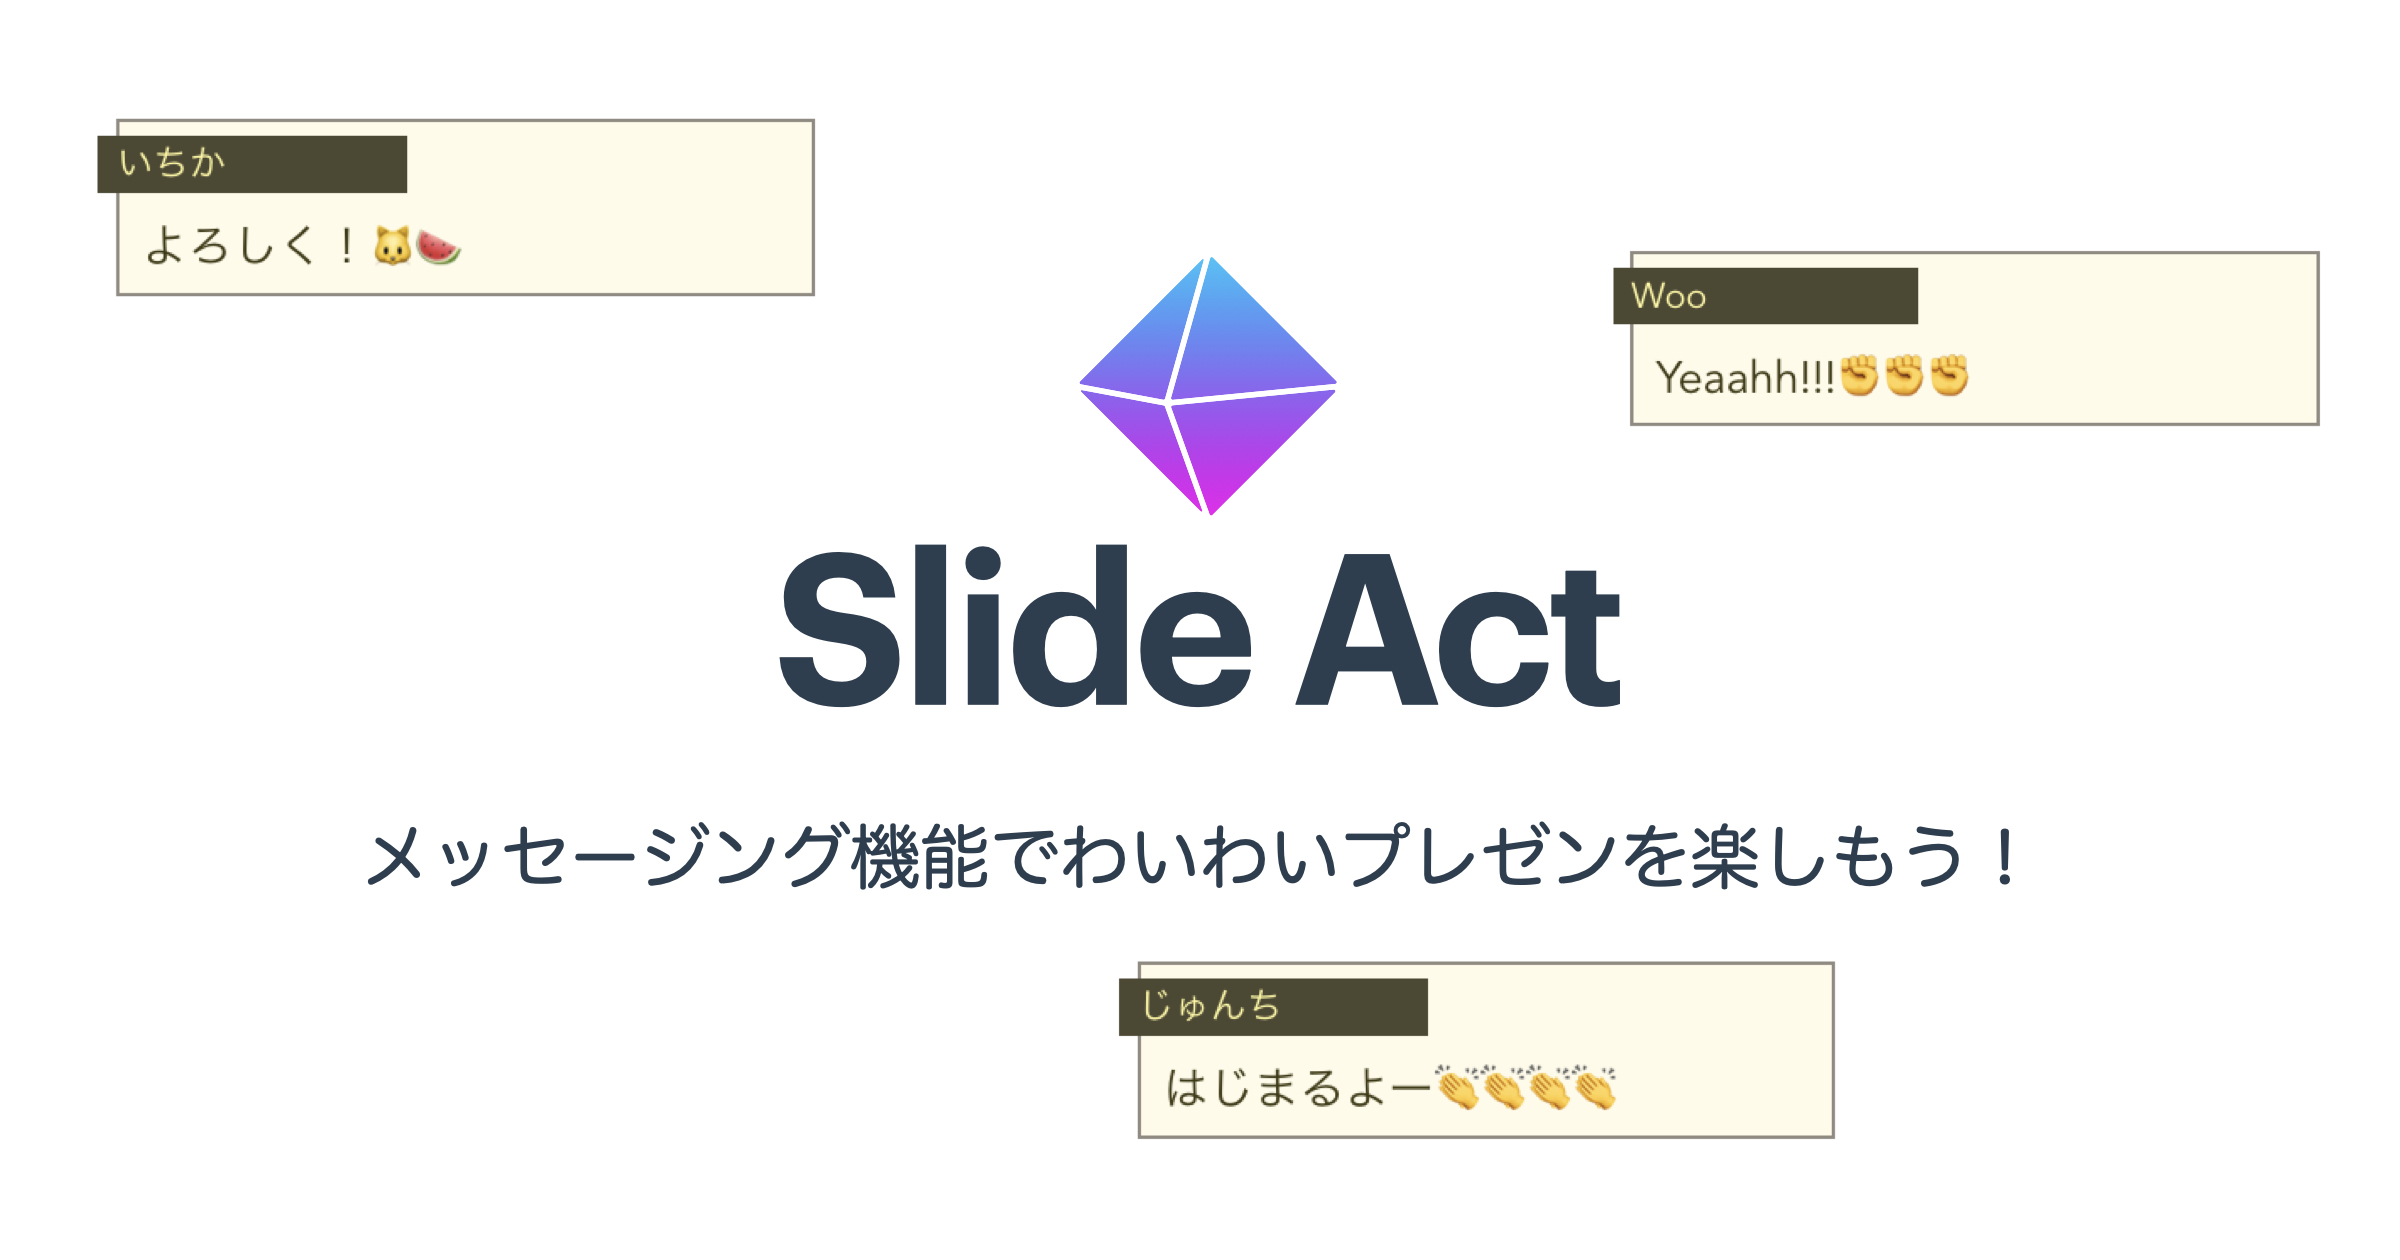
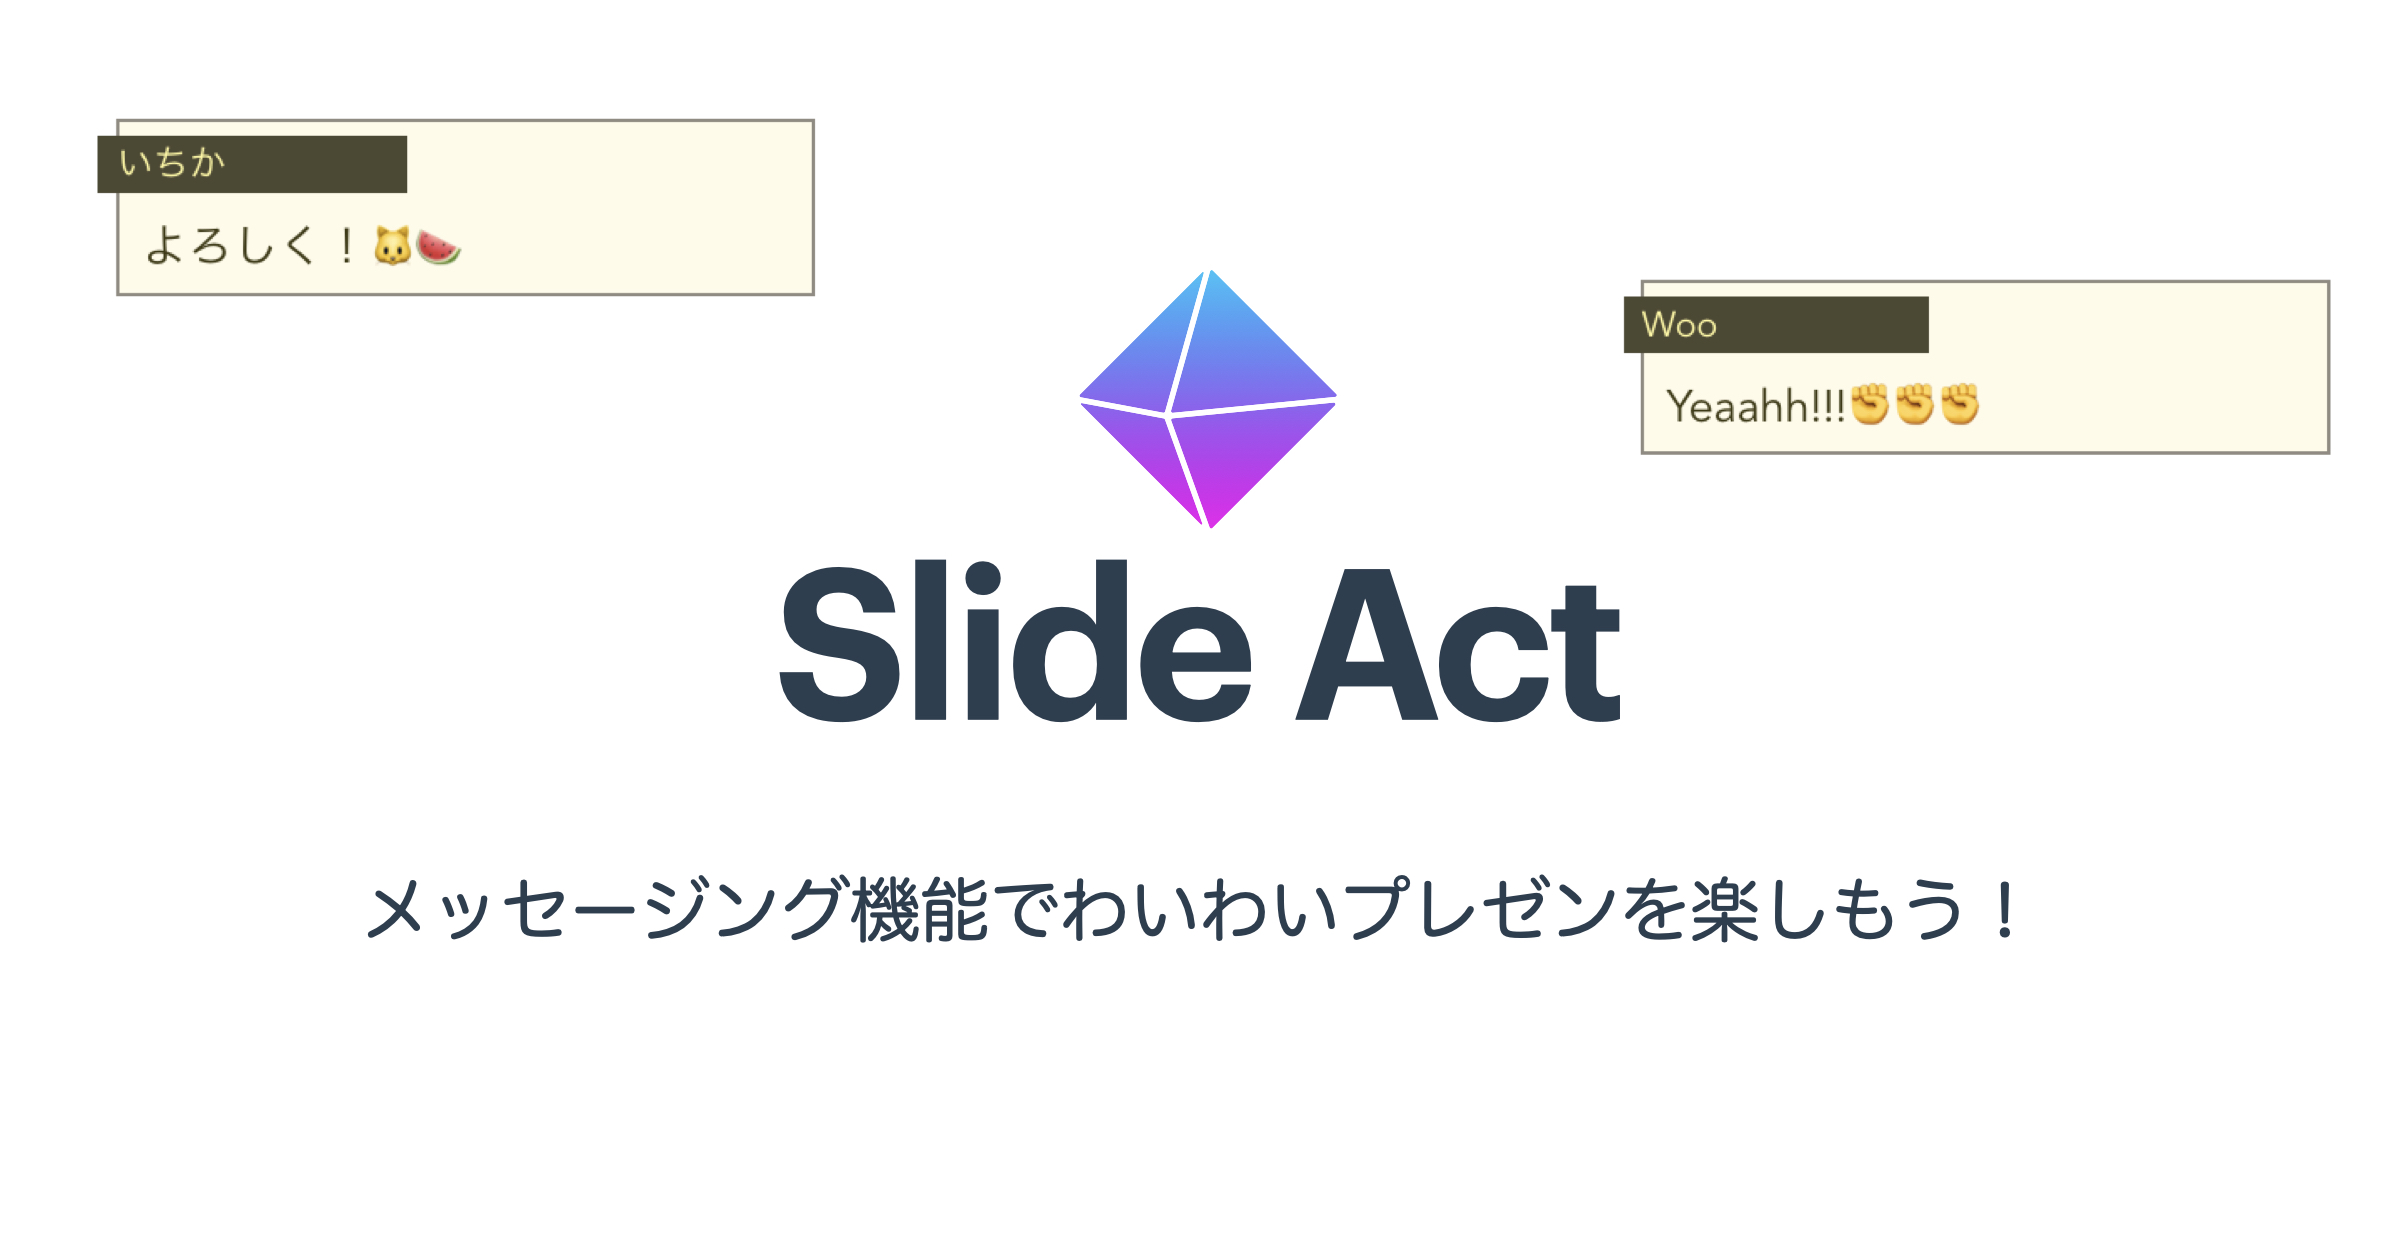
margin微調整

diff --git a/src/App.vue b/src/App.vue
@@ -24,6 +24,6 @@ font-family: YakuHanJP, "Noto Sans JP", "Helvetica Neue", Arial, "Hiragino Kaku 
 }
 
 main.content {
-  margin-top: 6rem;
+  margin-top: 5rem;
 }
 </style>

diff --git a/src/components/presenter/Top.vue b/src/components/presenter/Top.vue
@@ -188,7 +188,7 @@ export default {
 
 <style scoped>
 img.logo {
-  width: 15rem;
+  width: 18rem;
 }
 
 p.description {
